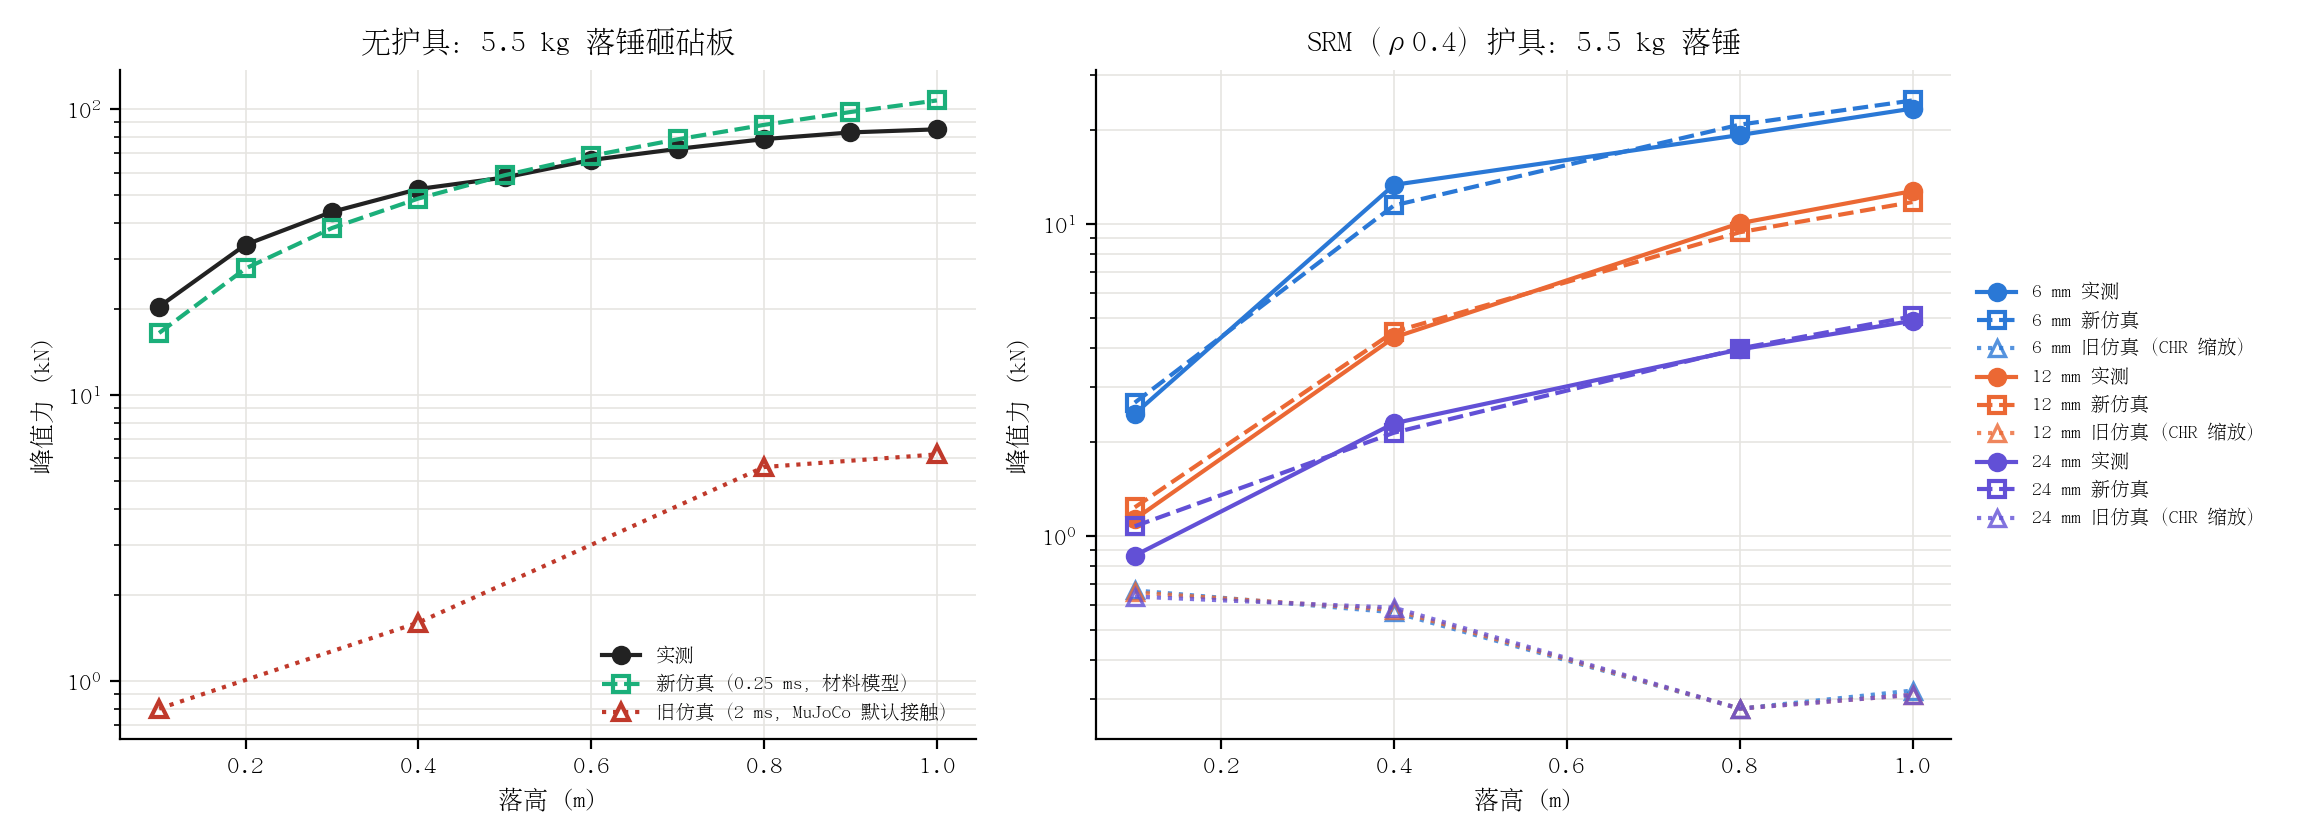
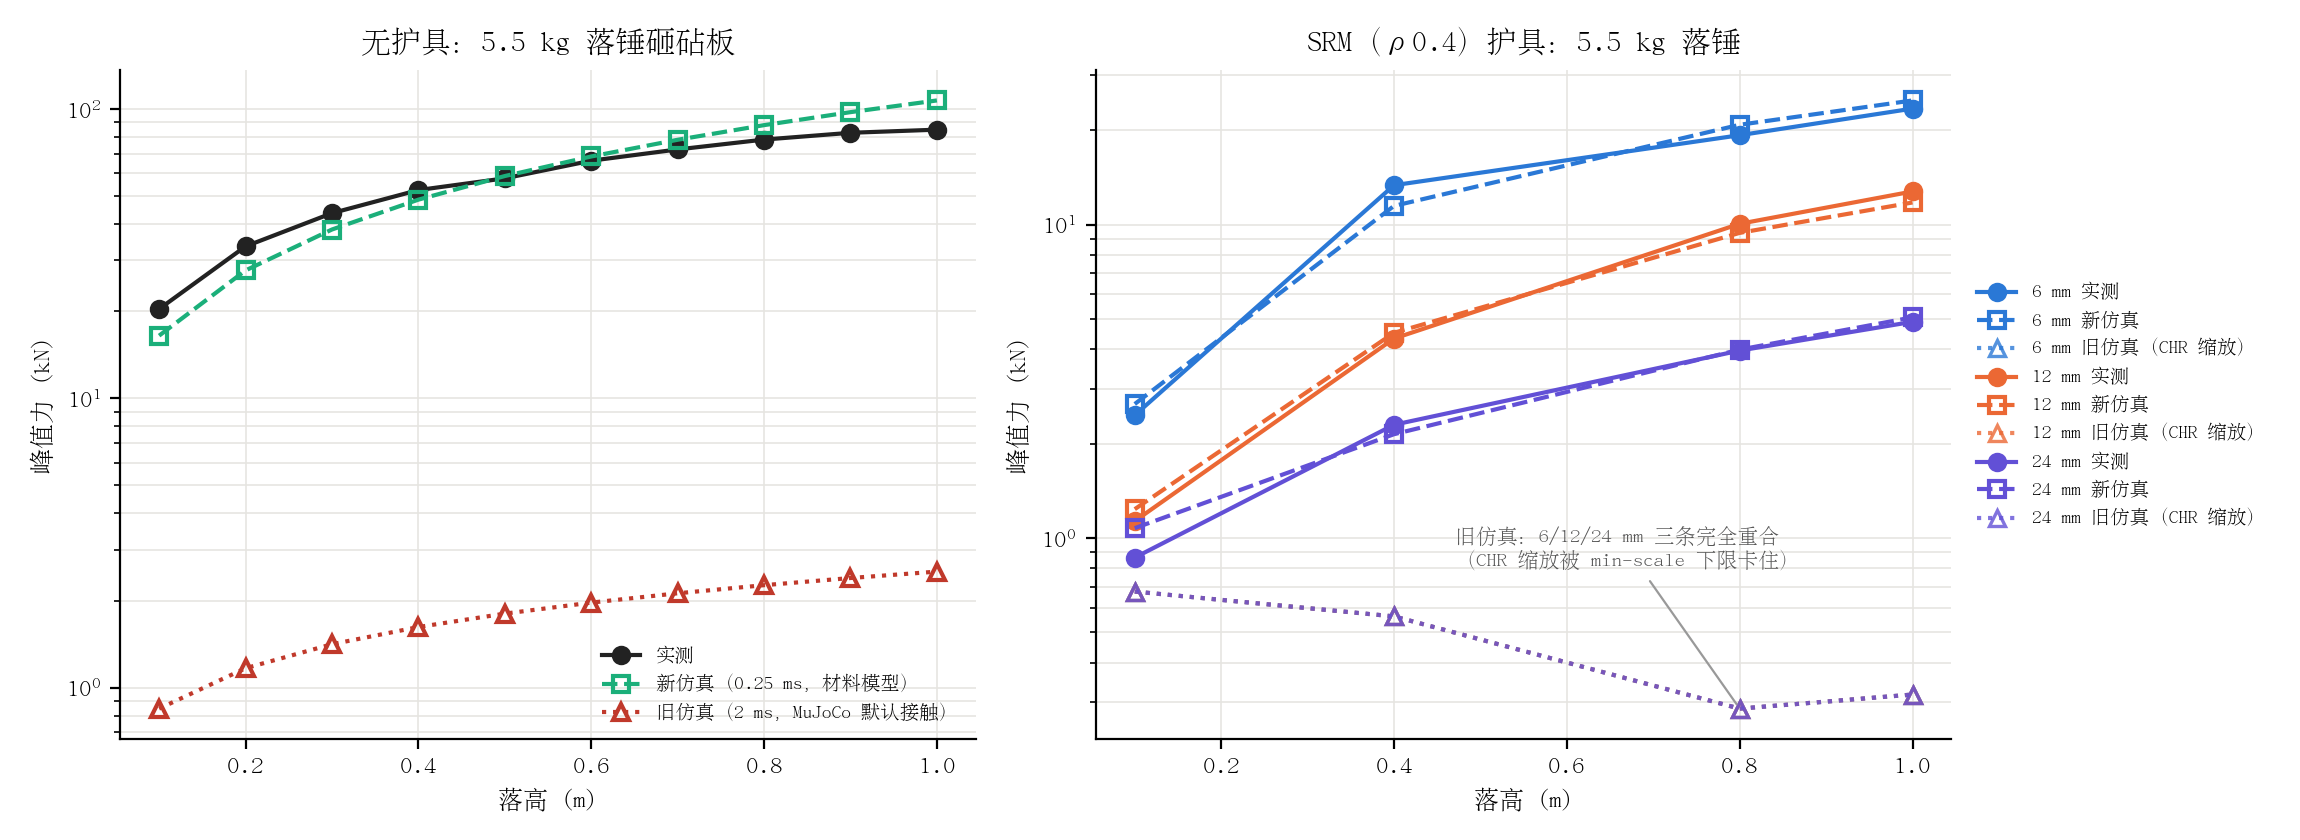
Drop check: old pipeline computed at every height (no-protector = scaling off); fix 0.8/1.0 m old values; annotate overlapping old SRM curves

diff --git a/protector_research/plot_drop_old_vs_new.py b/protector_research/plot_drop_old_vs_new.py
@@ -4,7 +4,8 @@ measured : no protector  runs/bare_measured_peaks.csv (冲击力截取.zip, 0.1-
            SRM rho 0.4   data1 (drop.load_targets, 6/12/24 mm x 0.1/0.4/0.8/1.0 m; per-trial curves confirmed 2026-11-19)
 old sim  : the pipeline of the old robot data (nmi_dataset): dt 2 ms, MuJoCo default contact solref [0.02, 1] /
            solimp [0.9, 0.95, 0.001, 0.5, 2], protector = CHR scaling of efc_force with the simulator's min-scale limits
-           (drop_m1.py, RESULTS 2026-11-11 21:00, 4 phases). No protector = the unscaled force of the same model.
+           (drop_m1.drop_m1, computed here at every measured height, 4 phases). No protector = the same contact model
+           without scaling (scale_on=False; the old simulator with protection off).
 new sim  : the current simulator (contact_material, protector_materials.yaml as installed): dt 0.25 ms, bare = the
            measured-fit bare material, SRM = H_s0 pad + bare shell once compressed beyond t (bottom_out), 4 phases.
 Writes runs/figs/drop_old_vs_new_vs_measured.png and runs/drop_old_vs_new.csv.
@@ -22,6 +23,7 @@ from drop import IMPACTOR_MASS, load_targets
 from fit_m2 import FastDrop
 from fit_m2_direct import NAMES, material
 from fit_material import BottomDrop, BARE_T
+from drop_m1 import drop_m1
 
 font_manager.fontManager.addfont("/usr/share/fonts/truetype/arphic/uming.ttc")
 plt.rcParams["font.family"] = font_manager.FontProperties(fname="/usr/share/fonts/truetype/arphic/uming.ttc").get_name()
@@ -29,10 +31,13 @@ plt.rcParams.update({"axes.unicode_minus": False, "font.size": 9, "axes.spines.t
 
 MATS = "/home/wang22/engineai/engineai_ros2_workspace/src/simulation/mujoco/assets/config/protector_materials.yaml"
 DT_NEW = 0.00025
-H4 = (0.1, 0.4, 0.8, 1.0)
-# old pipeline (drop_m1.py, RESULTS 2026-11-11 21:00): kN at 0.1/0.4/0.8/1.0 m
-OLD_BARE = dict(zip(H4, (0.8, 1.6, 5.6, 6.2)))
-OLD_SRM = {6: (0.67, 0.57, 0.28, 0.32), 12: (0.66, 0.58, 0.28, 0.31), 24: (0.64, 0.59, 0.28, 0.31)}
+
+
+def old(t_mm, h, protected):
+  """Old pipeline peak (kN): applied force with CHR scaling, or the unscaled force without protector."""
+  r = [drop_m1(t_mm, v(h), phase=k / 4, scale_on=protected) for k in range(4)]
+  return float(np.mean([x[0] for x in r]))
+
 COL = {6: "#2a78d6", 12: "#eb6834", 24: "#6250d6"}
 
 mats = yaml.safe_load(open(MATS))["materials"]
@@ -45,7 +50,7 @@ fd = FastDrop(DT_NEW, IMPACTOR_MASS)
 fd.set(material(x["bare"], tb, IMPACTOR_MASS))
 rows = []
 for _, r in bare.iterrows():
-  rows.append(dict(case="无护具", t_mm=0, h=r.h, measured_kN=r.Fpk_N / 1e3, old_kN=OLD_BARE.get(round(r.h, 2), np.nan),
+  rows.append(dict(case="无护具", t_mm=0, h=r.h, measured_kN=r.Fpk_N / 1e3, old_kN=old(0, r.h, False),
                    new_kN=fd.run_avg(v(r.h), 4)[0] / 1e3))
 bd = BottomDrop(DT_NEW, IMPACTOR_MASS)
 tg = load_targets()
@@ -54,7 +59,7 @@ for t in (6, 12, 24):
   m = tg[(tg.density == 0.4) & (tg.t_mm == t)].sort_values("h")
   for _, r in m.iterrows():
     rows.append(dict(case=f"SRM {t} mm", t_mm=t, h=r.h, measured_kN=r.Fpk_N / 1e3,
-                     old_kN=OLD_SRM[t][H4.index(round(r.h, 2))], new_kN=bd.run_avg(v(r.h), 4)[0] / 1e3))
+                     old_kN=old(t, r.h, True), new_kN=bd.run_avg(v(r.h), 4)[0] / 1e3))
 df = pd.DataFrame(rows)
 df["old_err"] = df.old_kN / df.measured_kN - 1
 df["new_err"] = df.new_kN / df.measured_kN - 1
@@ -74,6 +79,10 @@ for t in (6, 12, 24):
   ax.plot(s.h, s.measured_kN, "o-", color=COL[t], label=f"{t} mm 实测")
   ax.plot(s.h, s.new_kN, "s--", color=COL[t], mfc="none", mew=1.5, label=f"{t} mm 新仿真")
   ax.plot(s.h, s.old_kN, "^:", color=COL[t], mfc="none", mew=1.2, alpha=0.8, label=f"{t} mm 旧仿真（CHR 缩放）")
+o6 = df[df.t_mm == 6].old_kN.to_numpy()
+if all(np.allclose(df[df.t_mm == t].old_kN.to_numpy(), o6) for t in (12, 24)):
+  ax.annotate("旧仿真：6/12/24 mm 三条完全重合\n（CHR 缩放被 min-scale 下限卡住）", (0.8, o6[2]), xytext=(0.47, 0.8),
+              textcoords="data", fontsize=7.5, color="#555555", arrowprops=dict(arrowstyle="-", color="#999999", lw=0.8))
 ax.set_title("SRM（ρ0.4）护具：5.5 kg 落锤")
 for ax in axes:
   ax.set_yscale("log"); ax.set_xlabel("落高 (m)"); ax.set_ylabel("峰值力 (kN)"); ax.grid(color="#e6e5e1", lw=0.6, which="both")

diff --git a/protector_research/RESULTS.md b/protector_research/RESULTS.md
@@ -1072,6 +1072,7 @@ NMI 重算 dt 问题：recalculate_nmi_fig_risk_cache 调用未传 dt（默认 2
 ## 2026-11-22 新旧仿真对落锤实测：峰值力
 
 - `plot_drop_old_vs_new.py` → `runs/figs/drop_old_vs_new_vs_measured.png`、`runs/drop_old_vs_new.csv`。5.487 kg 球头落锤，4 个时间相位平均。旧 = 旧机器人数据的流程（dt 2 ms、MuJoCo 默认接触，护具为 CHR 缩放 efc_force，drop_m1.py 11-11 结果）；新 = 现装 protector_materials.yaml（dt 0.25 ms，bare 实测拟合 + 静止约束，SRM H_s0 + 压穿外壳接触）。
-- 无护具（0.1–1 m，10 个落高）：实测 20.4–85.0 kN；新仿真 −19% 到 +26%（rms 14%；0.1 m −19%、1 m +26%）；旧仿真 0.8–6.2 kN，−97% 到 −93%。
-- SRM ρ0.4（6/12/24 mm × 0.1/0.4/0.8/1.0 m）：新仿真 −14% 到 +24%（rms 10%；最差 24 mm 0.1 m +24%）；旧仿真 0.28–0.67 kN，−99% 到 −26%，且几乎不随落高和厚度变化。
+- 无护具（0.1–1 m，10 个落高）：实测 20.4–85.0 kN；新仿真 −19% 到 +26%（rms 14%；0.1 m −19%、1 m +26%）；旧仿真（drop_m1，scale_on=False，逐落高现算）0.85–2.52 kN，−97% 到 −96%。
+  - 更正：初版图中旧仿真 0.8/1.0 m 的 5.6/6.2 kN 抄自 11-11 表的“仿真未防护力”，那是 CHR 缩放运行中记录的未缩放力（缩放后球压得更深，该值偏大），不是关掉护具时的力；正确值 2.26/2.52 kN。
+- SRM ρ0.4（6/12/24 mm × 0.1/0.4/0.8/1.0 m）：新仿真 −14% 到 +24%（rms 10%；最差 24 mm 0.1 m +24%）；旧仿真 0.29–0.68 kN，−99% 到 −22%，三种厚度逐点相同（缩放被 min-scale 下限卡住），且随落高下降。
 - 范围：只验证了单个 5.5 kg 刚球竖直砸砧板、落高 ≤ 1 m。未验证：其他质量（机器人部件有效质量约 1–40 kg，新模型按有效质量归一化，未做落锤实测）、斜向/滑动冲击、手部（用模型原生接触）、整机摔倒（无实测）。
